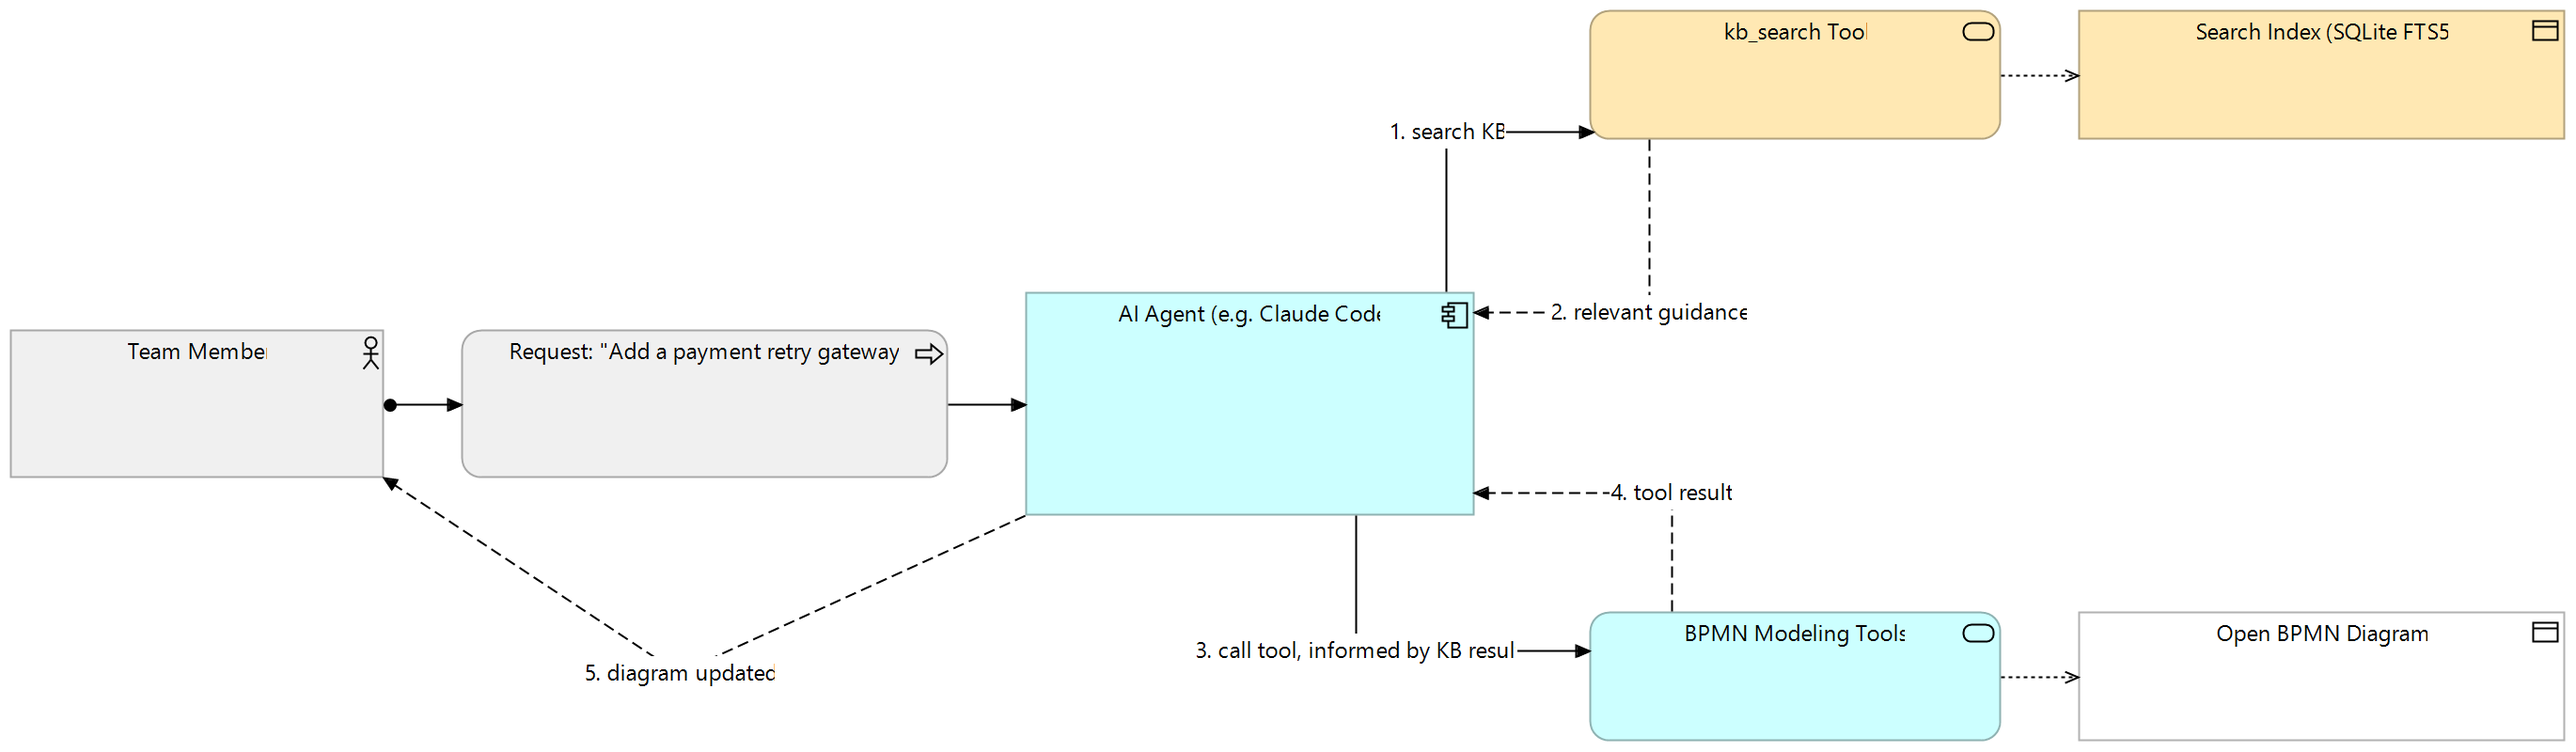
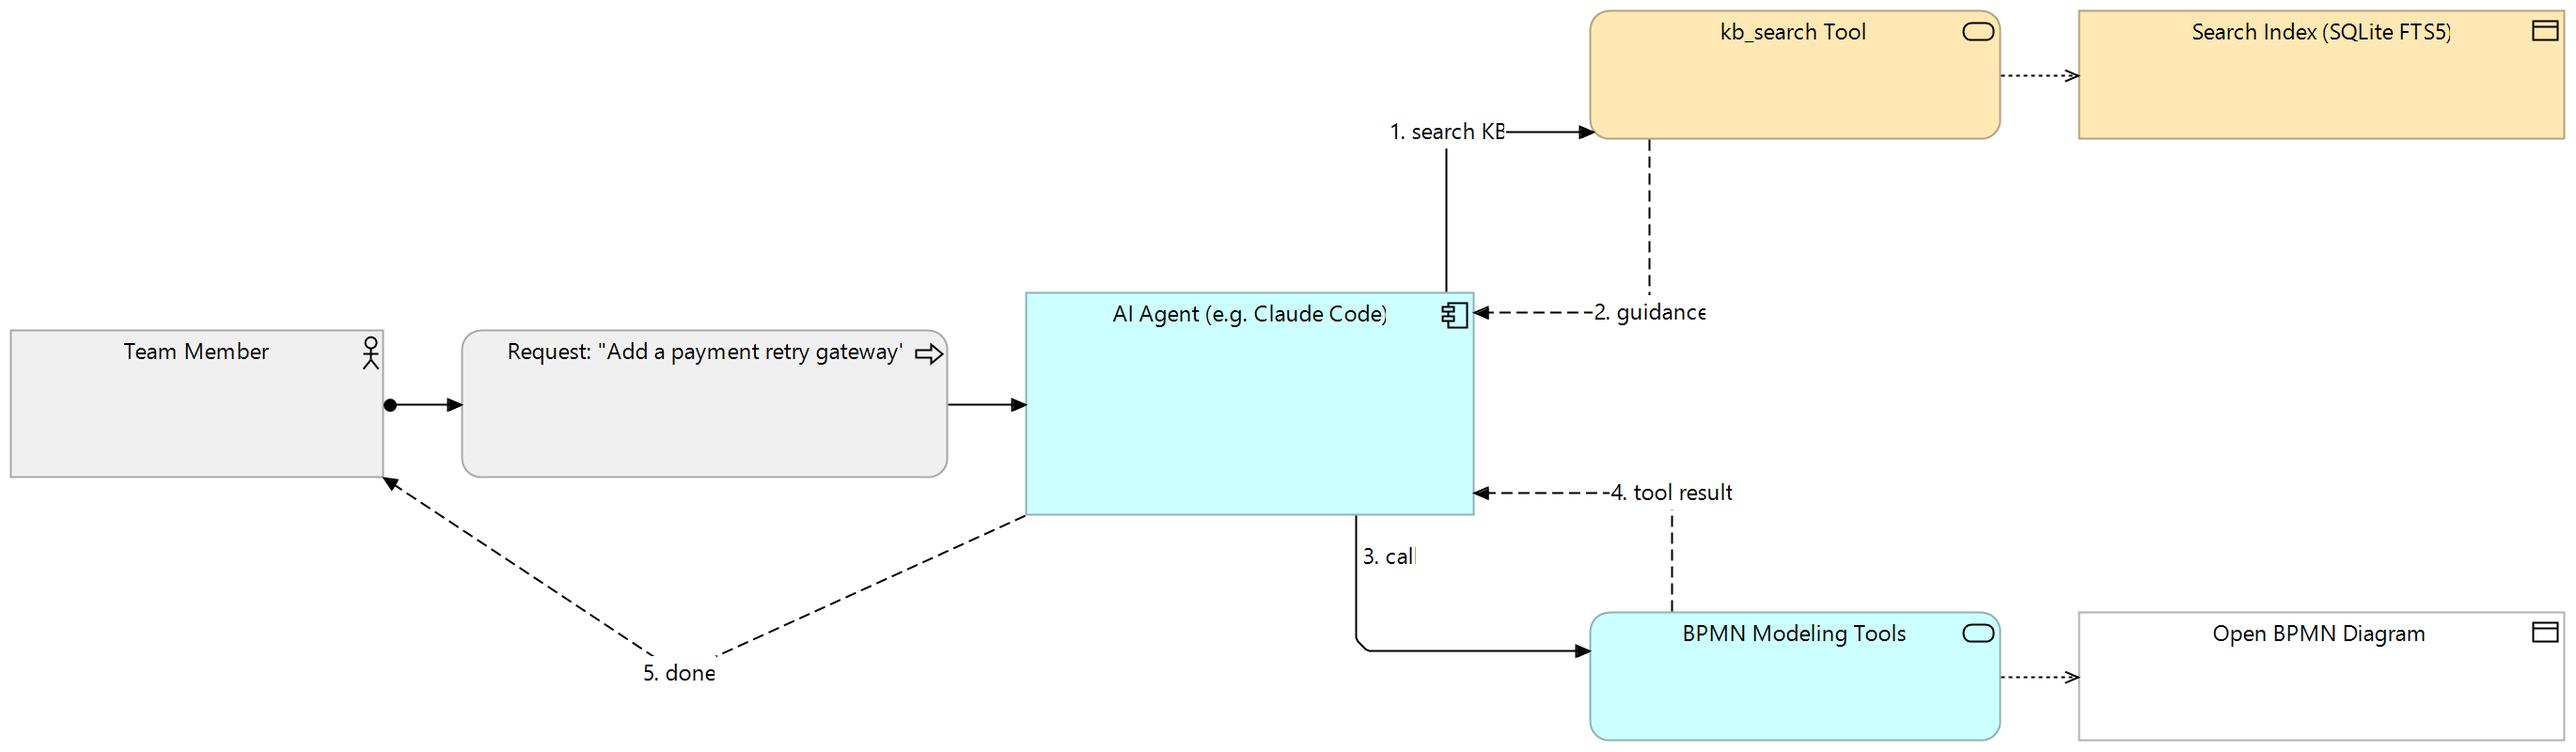
docs: full README audit + DB schema ERD + wire into KB docs (#25)
README: full section-by-section audit against current source, not just
the KB-scoped edits made during #24. Fixes found: manage_diagram missing
its set_execution_platform_version operation, query_diagram missing its
validate operation entirely, add_element's task/end/event rows missing
several genuinely settable fields, Option B's build steps missing the
electron-rebuild step better-sqlite3 actually needs to load inside
Modeler's Electron process, an incorrect claim that F12/Cmd+R covers all
server-side changes (it only covers client/, never src/), and a missing
file in the Project Structure tree. Also adds a "Knowledge Base in
Action" section with the lifecycle diagram, and drops the stale
docs/architecture.png reference from Architecture in favor of pointing
at the (accurate) docs/architecture.md and kb-architecture docs.

Archi model: adds a 4th view, "Knowledge Base - Database Schema" —
an ERD-style rendering of documents/documents_fts/schema_meta as
nested Data Objects with their full column lists shown directly on
the diagram (not just in speech-bubble documentation), following
archi-mcp's Data Model View guide. Also fixes a label-clipping
rendering bug affecting every existing view (long element/relationship
names losing their last 1-2 characters on export) via padding/
shortening/repositioning, and re-exports all four views.

docs/kb-architecture/architecture.md: new "Database schema" section
with the ERD and full table breakdown, linking out to issue #25's two
[…]

diff --git a/README.md b/README.md
@@ -34,22 +34,15 @@ v2.0 follows the recommended pattern: a small set of **resource-oriented tools**
 
 ## Architecture
 
-![Architecture — Request flow through the two Electron processes](docs/architecture.png)
+![Camunda-MCP Plugin Structure View](docs/kb-architecture/kb-structure-view.png)
 
-*Architecture model created with [Archi](https://www.archimatetool.com/) via the [Archi MCP Plugin](https://github.com/tobi/archi-mcp-server).*
+The plugin runs across two Electron processes connected by a renderer bridge (Node.js main process + Chromium renderer), plus the knowledge base subsystem shown above. For the full request lifecycle, a breakdown of every module in `src/` and `client/`, and why the bridge uses `executeJavaScript()` instead of IPC, see **[`docs/architecture.md`](docs/architecture.md)** (whole-plugin) and **[`docs/kb-architecture/architecture.md`](docs/kb-architecture/architecture.md)** (knowledge base deep dive, diagrams, and the editable Archi model).
 
-The plugin runs across two Electron processes connected by a renderer bridge.
+## Knowledge Base in Action
 
-**Request lifecycle:**
+![Knowledge Base Real-World Interaction Lifecycle](docs/kb-architecture/kb-lifecycle-view.png)
 
-1. MCP client sends `POST /mcp` with a JSON-RPC tool call
-2. The MCP SDK routes the call to the registered tool handler, which resolves the consolidated tool + `operation` to an internal handler
-3. **Local handlers** (e.g. `manage_diagram {operation: "create"}`, `create_dmn`) execute directly in Node.js
-4. **Renderer handlers** (e.g. `add_element`, `connect`) are forwarded to the Chromium renderer via `webContents.executeJavaScript()`, which calls `window.__mcpDispatch()` -- a global function registered by the bpmn-js plugin module
-5. The renderer calls the bpmn-js API (`modeling.createShape`, `modeling.connect`, `modeling.updateLabel`, etc.) and returns the result
-6. The MCP server returns the JSON-RPC response to the client
-
-**Why `executeJavaScript` instead of IPC?** The Camunda Modeler runs with `contextIsolation` enabled, which prevents plugin scripts from accessing `ipcRenderer`. The `executeJavaScript` bridge bypasses this by calling a global function directly from the main process.
+A concrete walk-through of the two-tier knowledge base and BPMN tools working together: a team member asks the AI agent to build or modify a diagram (e.g. *"Add a payment retry gateway"*). The agent (1) calls `kb_search` before acting, (2) gets relevant guidance back as cited excerpts, (3) calls a BPMN tool informed by that guidance, (4) gets the tool's result, and (5) reports the updated diagram back to the team member. This is the payoff of the design in [Architecture](#architecture) above — the knowledge base isn't a side feature, it's meant to be consulted as a normal part of every non-trivial diagram operation. See [`docs/kb-architecture/architecture.md`](docs/kb-architecture/architecture.md#real-world-example) for the full breakdown.
 
 ## Available Tools
 
@@ -69,6 +62,7 @@ and status fields only, reducing token usage by ~80%.
 | `export_image` | `diagramId`, `filePath`, `format` (`png`/`svg`, default `png`), `scale` (default `2`) | Exports the diagram as a PNG or SVG image. |
 | `import_xml` | `diagramId`, `xml` | Imports/replaces the diagram from BPMN 2.0 XML. |
 | `get_xml` | `diagramId` | Exports the diagram as BPMN 2.0 XML. |
+| `set_execution_platform_version` | `diagramId`, `version` (e.g. `"8.10"`), `platform` (default `"Camunda Cloud"`) | Corrects the target Camunda 8 execution platform version on the open diagram — needed for diagrams not created via `manage_diagram {operation: "create"}` (e.g. authored directly in Modeler), which carry no version stamp otherwise. |
 
 ### `add_element` — add a single element
 
@@ -76,11 +70,11 @@ Common params: `diagramId`, `name`, `x`, `y`, `parentId` (nest inside an expande
 
 | `operation` | Extra parameters | Description |
 |------|-----------|-------------|
-| `start` | — | Start Event. |
-| `end` | `eventDefinitionType` (Error, Signal, Message, Terminate, …) | End Event. A non-`none` definition creates a typed end event. |
-| `task` | `type` (`bpmn:UserTask`, `bpmn:ServiceTask`, `bpmn:ScriptTask`, …) | Task. |
+| `start` | `eventDefinitionType` (Message/Signal/Timer only), `messageRef`/`signalRef`/`timerValue`/`timerType` | Start Event. A process may only have one blank start event — use a typed one for a second, distinct trigger. |
+| `end` | `eventDefinitionType` (Error, Signal, Message, Terminate, Escalation, …), `errorRef`/`errorCode`, `messageRef`, `signalRef`, `escalationRef`/`escalationCode` | End Event. A non-`none` definition creates a typed end event; the matching `*Ref` field is required by Camunda validation for that definition type. |
+| `task` | `type` (`bpmn:UserTask`, `bpmn:ServiceTask`, `bpmn:ScriptTask`, …), `taskType` (Zeebe job type, required for ServiceTask/SendTask/BusinessRuleTask/ScriptTask), `taskRetries`, `messageRef` (ReceiveTask required/SendTask optional), `correlationKey` (ReceiveTask required alongside `messageRef`) | Task. |
 | `gateway` | `type` (`bpmn:ExclusiveGateway`, `bpmn:ParallelGateway`, …) | Gateway. |
-| `event` | `type` (intermediate/boundary), `eventDefinitionType`, `attachedToId`, `cancelActivity`, `boundaryPosition`, `timerValue`, `timerType` | Intermediate or boundary event. |
+| `event` | `type` (intermediate/boundary), `eventDefinitionType`, `attachedToId`, `cancelActivity`, `boundaryPosition`, `timerValue`/`timerType`, `errorRef`/`errorCode`, `messageRef`/`correlationKey`, `signalRef`, `escalationRef`/`escalationCode` | Intermediate or boundary event; extra fields apply per `eventDefinitionType`. |
 | `subprocess` | `type` (`bpmn:SubProcess`/`bpmn:CallActivity`), `width`, `height`, `collapsed`, `calledElement` | SubProcess or CallActivity. |
 | `pool` | `width`, `height` | Pool (`bpmn:Participant`) for collaboration diagrams. |
 | `lane` | `participantId` | Lane inside a pool. |
@@ -114,6 +108,7 @@ Common params: `diagramId`, `elementId`.
 | `list` | `diagramId`, `typeFilter` (optional), `parentId` (optional), `fields` (optional) | Lists elements with optional type filter, subprocess scope, and field selection. |
 | `get` | `diagramId`, `elementId` | Full detail incl. properties, extensions, connections. |
 | `bounds` | `diagramId`, `elementId` | Exact rendered bounds, center, edge connection points, and waypoints. |
+| `validate` | `diagramId`, `severity` (`error`/`warn`/`all`, default `"all"`) | Live Camunda validation errors/warnings — the same data as Modeler's Problems panel. Call this after `build_process`/`batch_operations` to confirm the diagram is actually valid instead of assuming so. |
 
 ### `manage_element` — delete / clone
 
@@ -155,6 +150,7 @@ Set the `MCP_API_KEY` environment variable to enable Bearer token authentication
 
 - **Camunda Desktop Modeler** v5.x (Electron-based)
 - **Node.js** >= 20 and **npm** >= 9 *(only required if building from source)*
+- **A C++ build toolchain** *(only if building from source, and only as a fallback — `better-sqlite3` ships prebuilt binaries for most common platforms via `prebuild-install`; a toolchain is only needed if no matching prebuilt exists for your Node.js version/OS/architecture)*
 
 ## Installation
 
@@ -218,7 +214,15 @@ Pick one of the two installation paths below.
    - `tsc` compiles the Node.js-side TypeScript (`src/`) to `dist/`
    - `webpack` bundles the renderer-side TypeScript (`client/`) to `client/dist/client.js`
 
-3. **Symlink into the Camunda Modeler plugins directory:**
+3. **Rebuild `better-sqlite3` against Modeler's Electron version** (only needed for the knowledge base's `kb_search` tool -- every other tool works fine without this step). This plugin loads directly into Camunda Modeler's own already-built Electron process via a symlink, not through a build pipeline that would normally rebuild native modules for the host's exact ABI -- a binary built against your local Node.js version will very likely fail to load with an ABI mismatch inside the real Modeler:
+
+   ```bash
+   npx electron-rebuild --version <modeler-electron-version> --module-dir . --which-module better-sqlite3 --force
+   ```
+
+   Find `<modeler-electron-version>` from the Modeler installation itself (e.g. its Help/About screen). If you skip this, the plugin still loads and every BPMN/Forms tool works normally -- a failed knowledge base reindex is caught and logged, not fatal (see [Known Limitations](#known-limitations) and [`docs/kb-architecture/architecture.md`](docs/kb-architecture/architecture.md#open-risk-the-one-native-dependency)).
+
+4. **Symlink into the Camunda Modeler plugins directory:**
 
    ```bash
    # macOS
@@ -231,7 +235,7 @@ Pick one of the two installation paths below.
    mklink /d "%APPDATA%\camunda-modeler\resources\plugins\camunda-mcp" C:\path\to\Camunda-mcp
    ```
 
-4. **Restart the Camunda Desktop Modeler.** The plugin will load automatically. Check the **Plugins** menu for "MCP Server: Running (port 3100)".
+5. **Restart the Camunda Desktop Modeler.** The plugin will load automatically. Check the **Plugins** menu for "MCP Server: Running (port 3100)".
 
 ## Upgrading from v1.x
 
@@ -271,6 +275,8 @@ npm run build
 # the existing symlink already points here — just restart the Modeler
 ```
 
+`npm install` will pull in the new v2.0 knowledge base dependencies; if you want `kb_search` working locally, also re-run the `electron-rebuild` step from [Option B](#option-b--build-from-source) above (`npm install` alone rebuilds `better-sqlite3` against your local Node.js, not Modeler's Electron).
+
 ### 3. Update your prompts and automation
 
 Any saved prompts, scripts, or `autoApprove` lists that reference v1 tool names must be updated to the consolidated tools. Most v1 tools become an `operation` on a v2 tool.
@@ -307,6 +313,7 @@ Any saved prompts, scripts, or `autoApprove` lists that reference v1 tool names 
 | `list_elements` | `query_diagram {operation: "list"}` |
 | `get_element` | `query_diagram {operation: "get"}` |
 | `get_element_bounds` | `query_diagram {operation: "bounds"}` |
+| `validate_diagram` | `query_diagram {operation: "validate"}` |
 | `delete_element` | `manage_element {operation: "delete"}` |
 | `clone_element` | `manage_element {operation: "clone"}` |
 | `auto_layout` | `layout {operation: "auto"}` |
@@ -371,7 +378,7 @@ Run both the TypeScript compiler and webpack in watch mode for iterative develop
 npm run dev
 ```
 
-After making changes, hot-reload inside the Modeler with **F12** (open DevTools) then **Cmd+R**. A full Modeler restart is only needed when server-side tool registrations change.
+**`client/` changes** (the Chromium renderer) hot-reload inside the Modeler with **F12** (open DevTools) then **Cmd+R**. **`src/` changes** (the Node.js main process — the MCP server, tool registration, the knowledge base, everything server-side) run in a separate OS process the renderer reload can't touch, so they always need a **full Modeler restart** to take effect, not just F12/Cmd+R.
 
 ### Adding new tools
 
@@ -402,7 +409,7 @@ For a larger, bulk-contributed corpus (as opposed to a small set of hand-curated
 2. That's it. No command to run, no manual reindex, no restart. A file watcher (`src/knowledge-base/watcher.ts`) picks up any add, edit, or removal under `docs/knowledge-base/` while the Modeler is running and reindexes automatically within a couple of seconds. (There's also a startup reindex for content that changed while the plugin wasn't running -- e.g. pulled via git before Modeler was launched.)
 3. Query it via the `kb_search` tool -- results come back as cited, highlighted excerpts (source file, format, and a snippet), not full documents.
 
-Under the hood this is a SQLite FTS5 full-text index with BM25 ranking (keyword search, not semantic/embedding similarity) -- see [`docs/kb-architecture/architecture.md`](docs/kb-architecture/architecture.md) for the full design rationale, including why FTS5 was chosen over a vector store.
+Under the hood this is a SQLite FTS5 full-text index with BM25 ranking (keyword search, not semantic/embedding similarity) -- see [`docs/kb-architecture/architecture.md`](docs/kb-architecture/architecture.md) for the full design rationale, including why FTS5 was chosen over a vector store, and its [Database schema](docs/kb-architecture/architecture.md#database-schema) section (with an ERD) for the three tables and how they relate.
 
 ## Project Structure
 
@@ -435,6 +442,7 @@ camunda-mcp/
 │       ├── handlers.ts             # dispatch() + ipcBridge wiring + SCHEMA_BY_TOOL lookup
 │       └── handlers/
 │           ├── local-tools.ts      # Node.js-side tools (createModel, createForm, addFormField, createDmn, deployProcess)
+│           ├── knowledge-base.ts   # kb_search handler: FTS5 MATCH + bm25() ranking + snippet() excerpts
 │           ├── tabs.ts             # Tab management (listOpenDiagrams, switchDiagram)
 │           ├── facade.ts           # FACADE map + resolveFacade (public tool+operation -> internal tool name)
 │           └── compact.ts          # compactResult (the `compact: true` response trimming)
@@ -474,6 +482,8 @@ camunda-mcp/
 - **Form linking in Camunda 8 mode.** Embedding forms via `zeebe:UserTaskForm` depends on the Modeler's moddle extensions. Falls back to `formId` reference if unavailable.
 - **Port conflicts.** The server retries up to 3 ports. If all are in use, startup fails.
 - **Streaming transport:** The server currently uses stateless Streamable HTTP. Server-Sent Events for real-time diagram change notifications is planned for a future release.
+- **Knowledge base indexing is whole-document, not chunked.** Each file in `docs/knowledge-base/` is indexed as one row regardless of length — a `kb_search` result cites the whole document, not a specific section. Heading/page-level chunking is a deferred future refinement.
+- **OCR (`.png`/`.jpg` ingestion) is English-only.** The vendored `tesseract.js` trained data (`assets/tessdata/`) covers English text recognition only.
 
 ## Verification / Testing
 
@@ -505,6 +515,12 @@ curl -s -X POST http://localhost:3100/mcp \
   -H 'Content-Type: application/json' \
   -H 'Accept: application/json, text/event-stream' \
   -d '{"jsonrpc":"2.0","method":"tools/call","params":{"name":"add_element","arguments":{"operation":"start","diagramId":"d","name":"Begin","x":200,"y":200}},"id":4}'
+
+# Search the knowledge base
+curl -s -X POST http://localhost:3100/mcp \
+  -H 'Content-Type: application/json' \
+  -H 'Accept: application/json, text/event-stream' \
+  -d '{"jsonrpc":"2.0","method":"tools/call","params":{"name":"kb_search","arguments":{"query":"bpmn best practices"}},"id":5}'
 ```
 
 ### Full E2E workflow test

diff --git a/docs/kb-architecture/architecture.md b/docs/kb-architecture/architecture.md
@@ -2,7 +2,7 @@
 
 Tracks the design behind [#24](https://github.com/JesseLeresche/Camunda-mcp/issues/24). This
 document explains what exists, why it's shaped this way, and how the pieces actually talk to
-each other — the three diagrams below are the same model, exported from
+each other — the four diagrams below are the same model, exported from
 [`Camunda-MCP-KB.archimate`](./Camunda-MCP-KB.archimate) (open it directly in
 [Archi](https://www.archimatetool.com/) to explore or edit).
 
@@ -133,6 +133,37 @@ base before acting, (2) gets relevant guidance back, (3) calls a BPMN tool infor
 guidance, (4) gets the tool's result, and (5) reports the updated diagram back to the team member.
 This is the payoff of the whole design — the knowledge base isn't a side feature, it's meant to be
 consulted as a normal part of every non-trivial diagram operation.
+
+## Database schema
+
+![Knowledge Base Database Schema](./kb-db-schema-view.png)
+
+Three tables, all created by `src/knowledge-base/db.ts`:
+
+- **`documents`** — one row per ingested file: `id` (primary key), `title`, `source_file` (unique —
+  this is the manifest-diff key), `source_format`, `mtime_ms` (the column `reindex()` compares
+  against disk to decide what changed), `updated_at`.
+- **`documents_fts`** — the FTS5 virtual table that actually gets searched (`title`, `body`).
+  Its `rowid` is set manually to the matching `documents.id` on insert, rather than left to
+  auto-increment — that's what makes a `kb_search` result traceable back to a specific
+  `documents` row (source file, format) by a plain rowid join, no separate foreign-key column
+  needed.
+- **`schema_meta`** — a single `key`/`value` row holding the current schema version. On a
+  mismatch at startup, `documents` and `documents_fts` are dropped and rebuilt from scratch rather
+  than migrated in place — safe because nothing in this database is irreplaceable, it's fully
+  regenerable from `docs/knowledge-base/`.
+
+If you open `knowledge-base.sqlite` in an external viewer, you'll also see `documents_fts_data`,
+`documents_fts_idx`, `documents_fts_docsize`, and `documents_fts_config` — these are FTS5's own
+internal shadow tables, auto-generated alongside `documents_fts`. Nothing in this codebase creates
+or touches them directly; they're SQLite's implementation detail, not a fourth table to document.
+
+For the full schema writeup (every column, the FTS5 shadow tables SQLite auto-generates, and why
+`documents_fts` links back to `documents` by rowid instead of a foreign key) see
+[issue #25's first comment](https://github.com/JesseLeresche/Camunda-mcp/issues/25#issuecomment-5132015423).
+For what FTS5 and BM25 actually are and how they work, see
+[the follow-up comment](https://github.com/JesseLeresche/Camunda-mcp/issues/25#issuecomment-5132035808)
+and the [Why FTS5, not vector search](#why-fts5-not-vector-search) section above.
 
 ## Key dependencies
 
